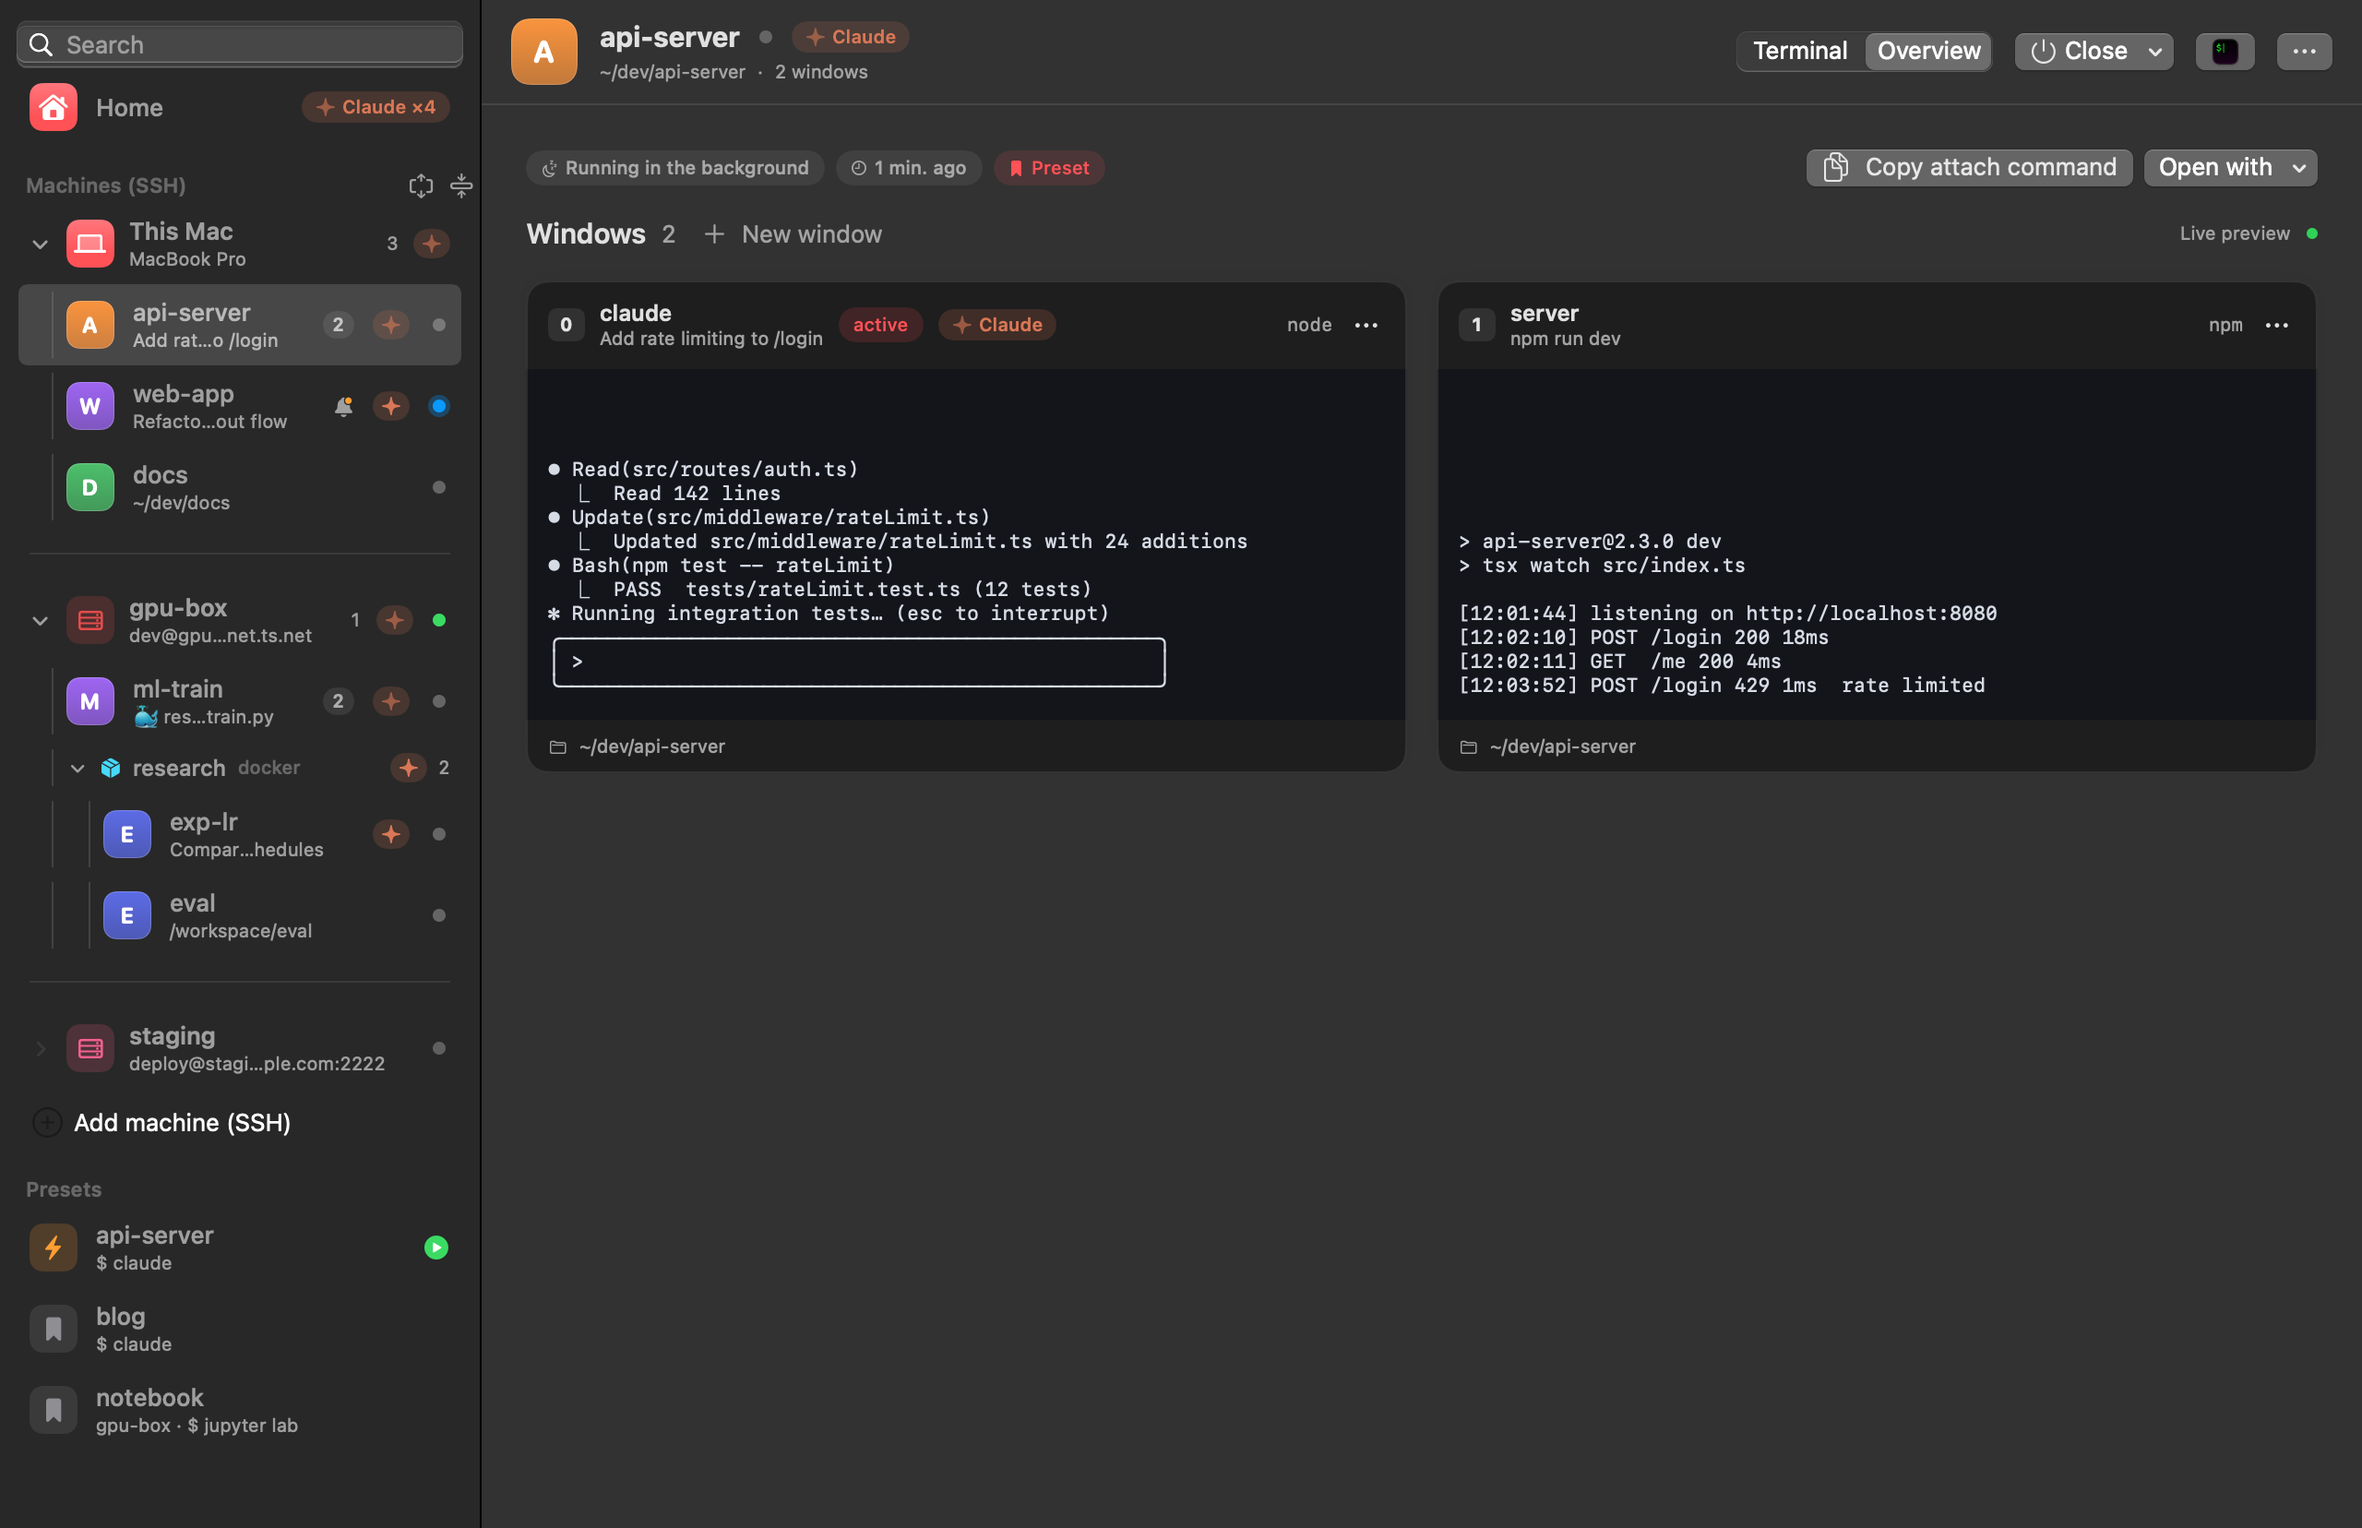
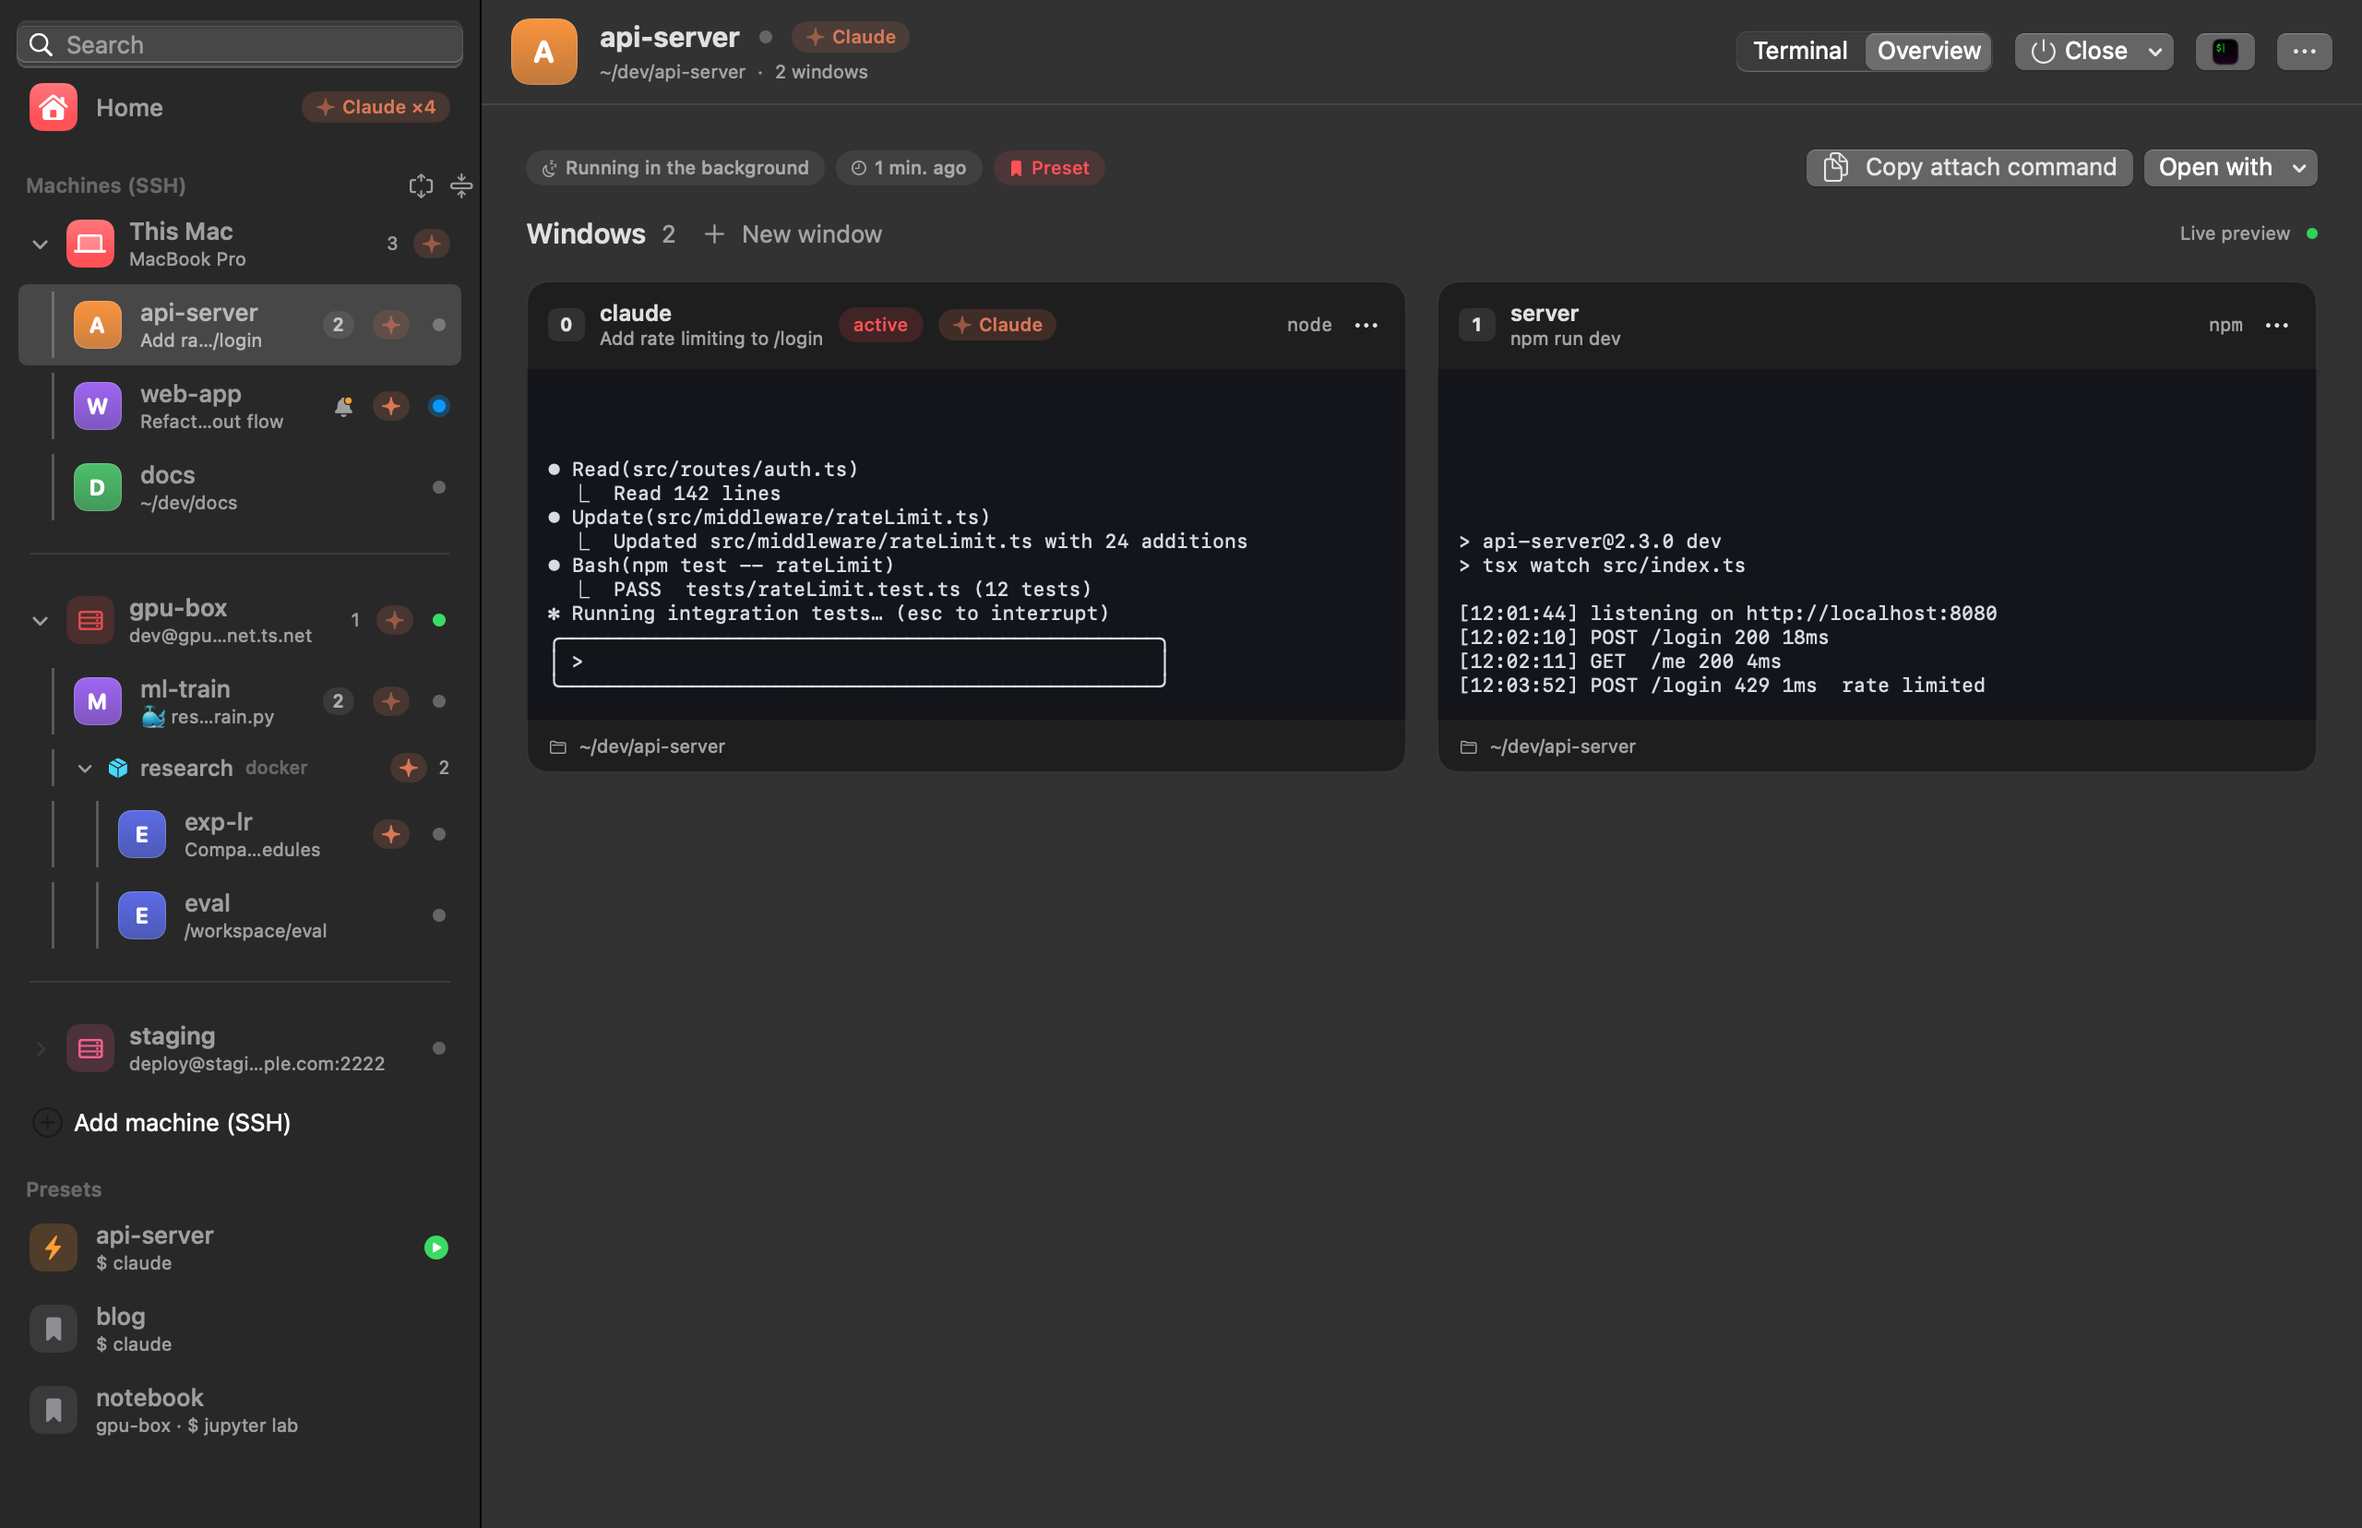
Initia 0.7.2-beta

Changed region(s): [[0.0312, 0.4312, 0.125, 0.6159], [0.0312, 0.1848, 0.125, 0.2772], [0.0312, 0.308, 0.0938, 0.3388]]

diff --git a/GUIDE.ko.md b/GUIDE.ko.md
@@ -72,7 +72,7 @@ Initia는 모든 것을 나무 구조로 보여줍니다.
 - 화면 마지막 몇 줄의 **실시간 미리보기**
 - 지금 작업명(Claude가 하는 일)과 마지막 활동 시간
 
-이 보입니다. 카드를 누르면 열립니다. 아직 시작하지 않은 프리셋은 **빠른 시작**에, 연결되지 않은 머신은 **연결** 버튼과 함께 나옵니다.
+이 보입니다. 묶음 제목을 누르면 접히고(위쪽에 모두 펼치기·접기), 컨테이너는 머신 묶음 안에 들여써 나옵니다. 카드를 누르면 열리고, 드래그로 순서를 바꿀 수 있습니다. 아직 시작하지 않은 프리셋은 **빠른 시작**에, 연결되지 않은 머신은 **연결** 버튼과 함께 나옵니다.
 
 ## 사이드바
 
@@ -98,6 +98,7 @@ INITIA에서 열림        탭으로 연 세션
 - 화살표를 누르면 머신·컨테이너를 접고 펼칩니다. 컨테이너는 기본으로 접혀 있고, 접혀 있어도 Claude·🔔 배지는 보입니다.
 - **머신 줄**을 누르면 머신 화면이 열립니다. 셸 열기, 새 세션, 실행 중인 컨테이너, (SSH면) 연결과 설정이 있습니다.
 - 들여쓰기와 세로 안내선으로 무엇이 어디에 속하는지 보입니다. 펼친 상태는 다음에도 그대로입니다.
+- 머신·세션·프리셋·탭은 드래그로 순서를 바꿀 수 있고, 홈도 같은 순서를 따릅니다.
 - 오른쪽 클릭으로 각 항목의 메뉴가 나옵니다. ⌃⌘S로 사이드바를 숨기고, 검색 칸으로 세션·머신·프리셋을 거를 수 있습니다.
 
 ## 세션에서 작업하기

diff --git a/GUIDE.md b/GUIDE.md
@@ -72,7 +72,7 @@ Below, every machine and every container with tmux gets its own section of **ses
 - a **live preview** of the last lines on screen
 - the current task title (what Claude is working on) and the last activity
 
-Click a card to open it. Presets you haven't started yet appear under **Quick start**, and machines that aren't connected are listed with a **Connect** button.
+Click a heading to collapse it (Expand all / Collapse all are at the top); containers sit inside their machine's section. Click a card to open it, or drag it to reorder. Presets you haven't started yet appear under **Quick start**, and machines that aren't connected are listed with a **Connect** button.
 
 ## The sidebar
 
@@ -98,6 +98,7 @@ PRESETS
 - Click the arrow to expand or collapse a machine or container. Containers start collapsed; their row still shows Claude and bell badges.
 - Click a **machine row** for its page: a shell, new sessions, running containers, and (for SSH) the connection and its config.
 - The guide lines and indentation show what belongs to what. What you expand stays expanded next time.
+- Drag machines, sessions, presets or tabs to reorder them; Home uses the same order.
 - Right-click anything for its actions. ⌃⌘S hides the sidebar. The search field filters sessions, machines and presets.
 
 ## Working in a session

diff --git a/CHANGELOG.md b/CHANGELOG.md
@@ -1,5 +1,13 @@
 # Changelog
 
+## 0.7.2-beta
+
+### New
+
+- **Drag to reorder** machines, sessions (within a machine or container), presets and the tabs at the top. The order is saved, and Home follows it
+- **Home sections collapse**: click a machine or container heading to fold it, or use Expand all / Collapse all at the top. What you fold is remembered
+- **Clearer hierarchy**: on Home, a machine's containers now sit inside the machine's section, indented with a colored line ("research (docker, in gpu-box)"). In the sidebar, child rows are indented further with stronger guide lines
+
 ## 0.7.1-beta
 
 ### New
